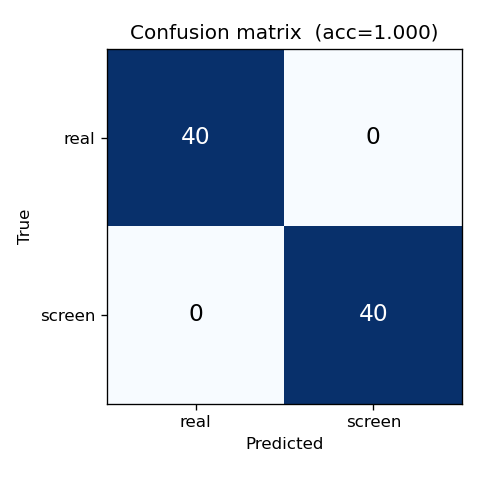
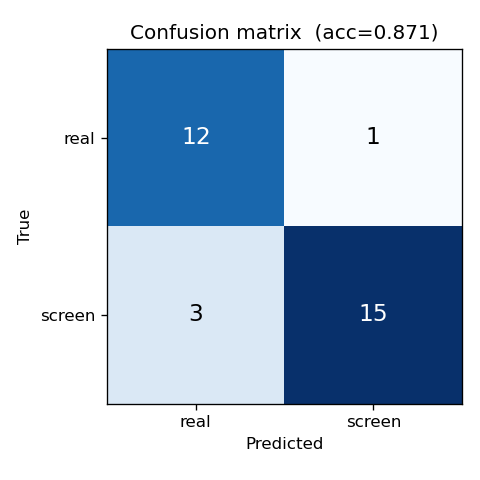
tested image

diff --git a/train.py b/train.py
@@ -31,6 +31,8 @@ from joblib import Parallel, delayed
 
 from sklearn.ensemble import RandomForestClassifier, HistGradientBoostingClassifier
 from sklearn.linear_model import LogisticRegression
+from sklearn.pipeline import make_pipeline
+from sklearn.preprocessing import StandardScaler
 from sklearn.model_selection import GroupShuffleSplit
 from sklearn.calibration import CalibratedClassifierCV
 from sklearn.metrics import (accuracy_score, precision_score, recall_score,
@@ -103,8 +105,13 @@ def model_zoo():
     zoo["HistGradientBoosting"] = HistGradientBoostingClassifier(
         max_depth=6, learning_rate=0.08, max_iter=400, l2_regularization=1.0,
         random_state=0)
-    zoo["LogisticRegression"] = LogisticRegression(
-        max_iter=2000, class_weight="balanced")
+    # Logistic regression is scale-sensitive and our 42 features span very
+    # different ranges (raw FFT magnitudes vs. ratios in [0,1]); standardising
+    # first is worth ~15 accuracy points here. Trees are scale-invariant so they
+    # are left bare.
+    zoo["LogisticRegression"] = make_pipeline(
+        StandardScaler(),
+        LogisticRegression(max_iter=2000, class_weight="balanced"))
 
     try:
         from xgboost import XGBClassifier